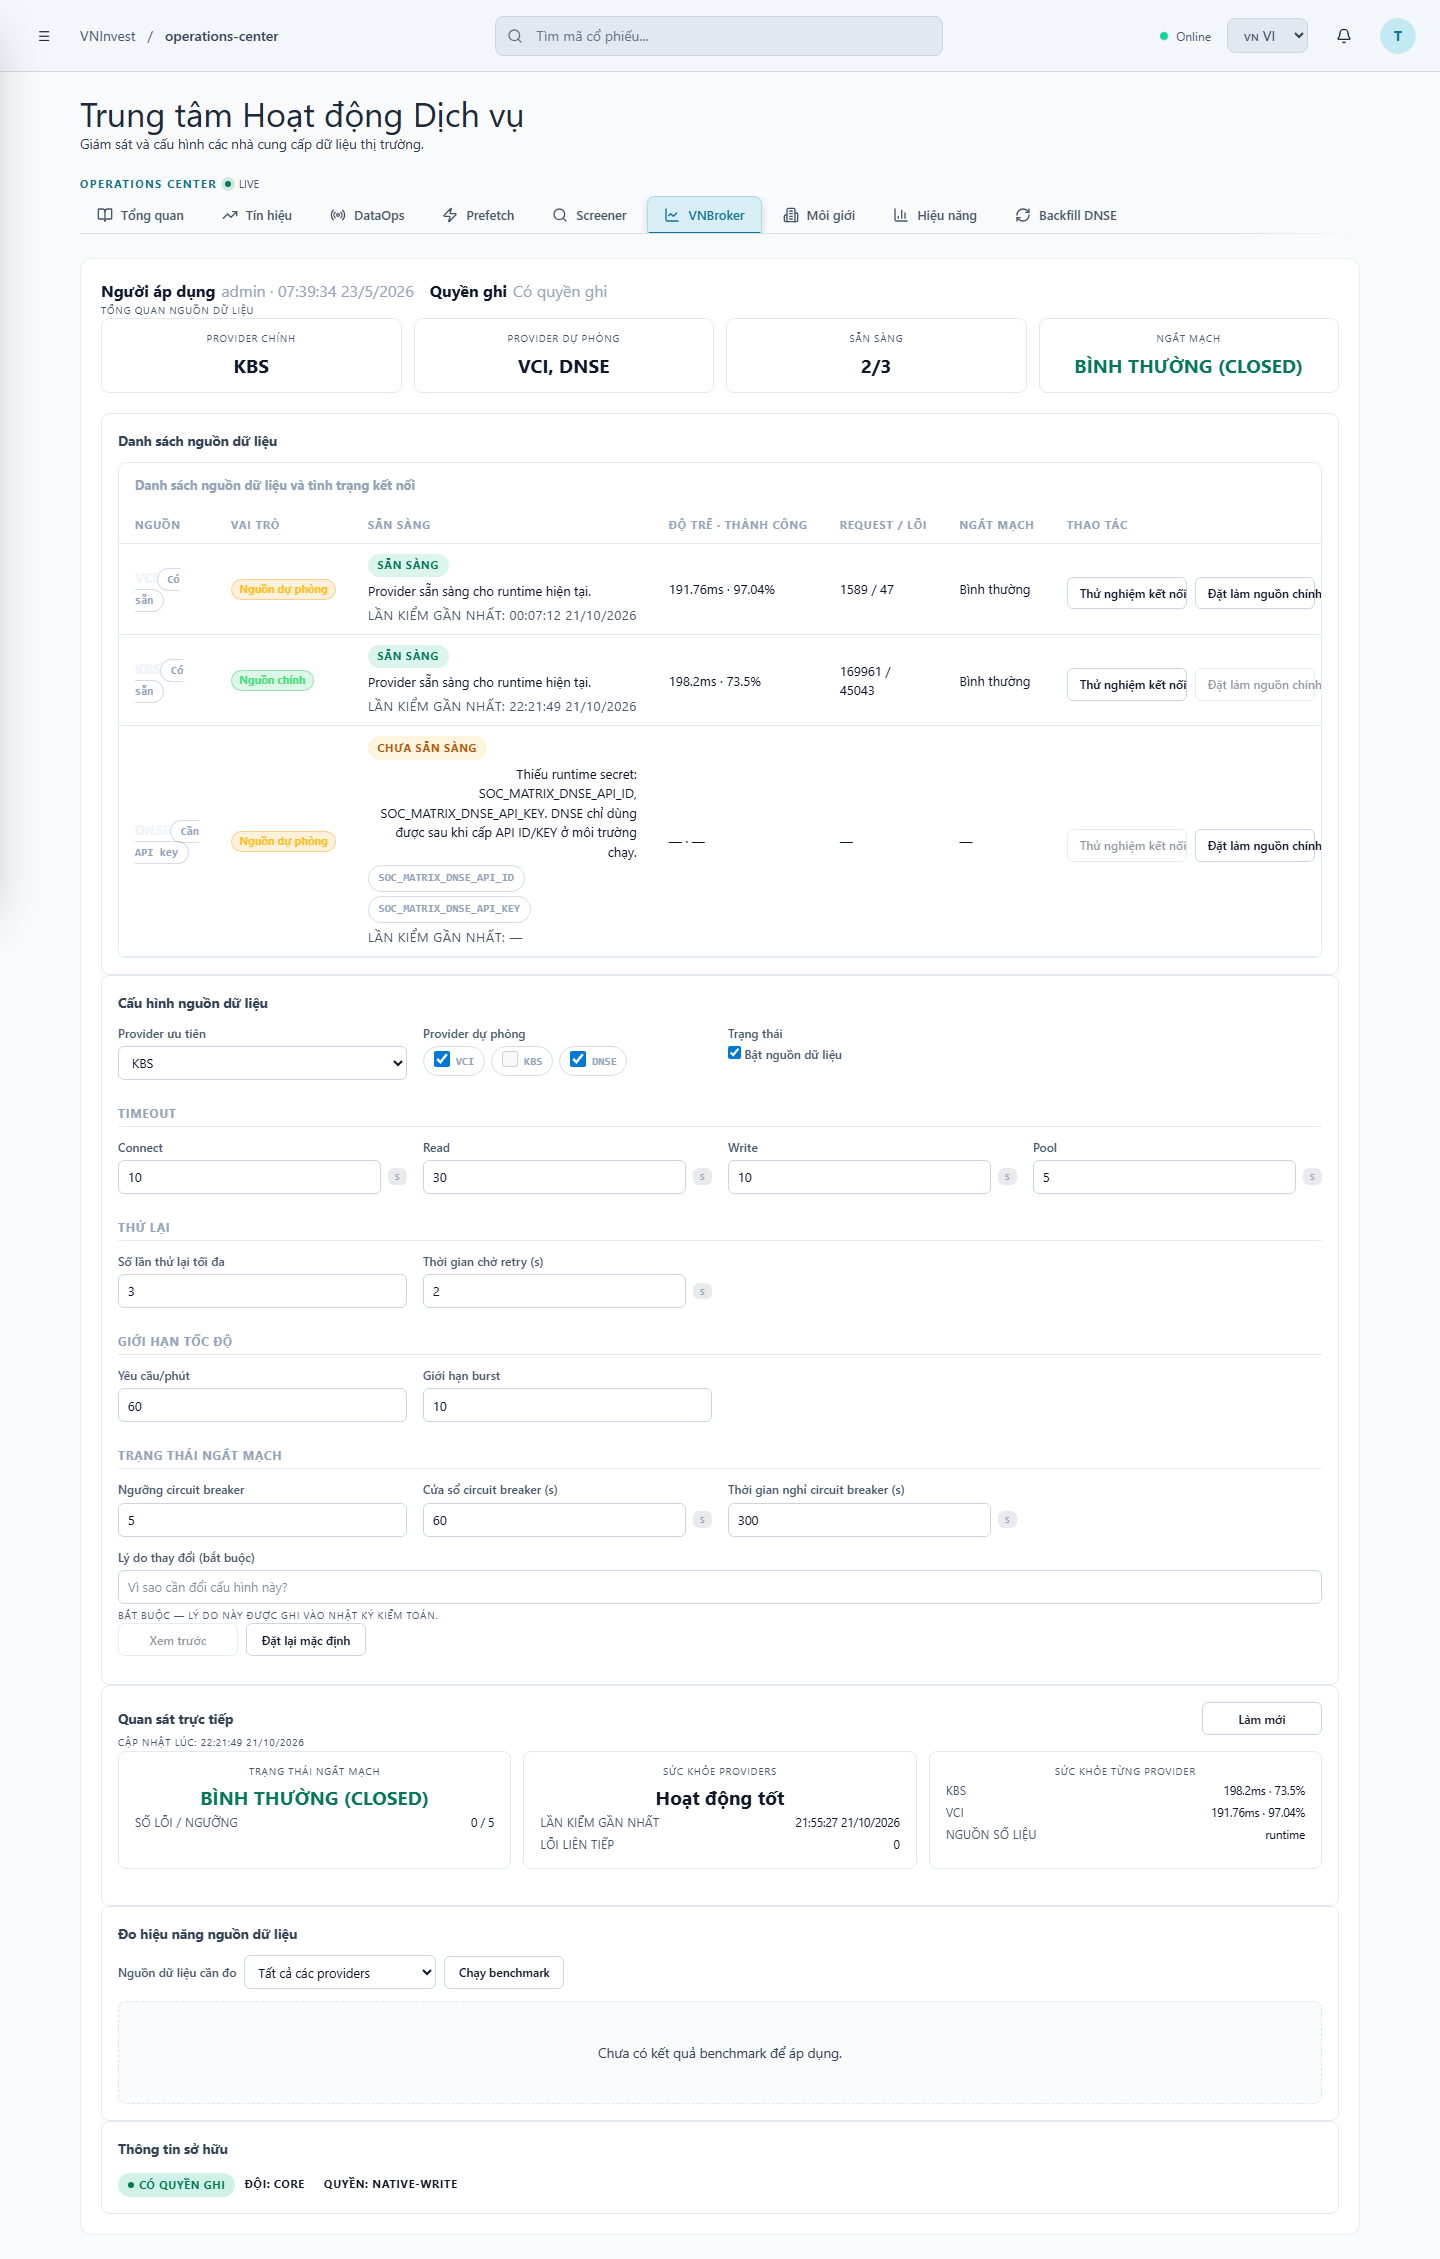
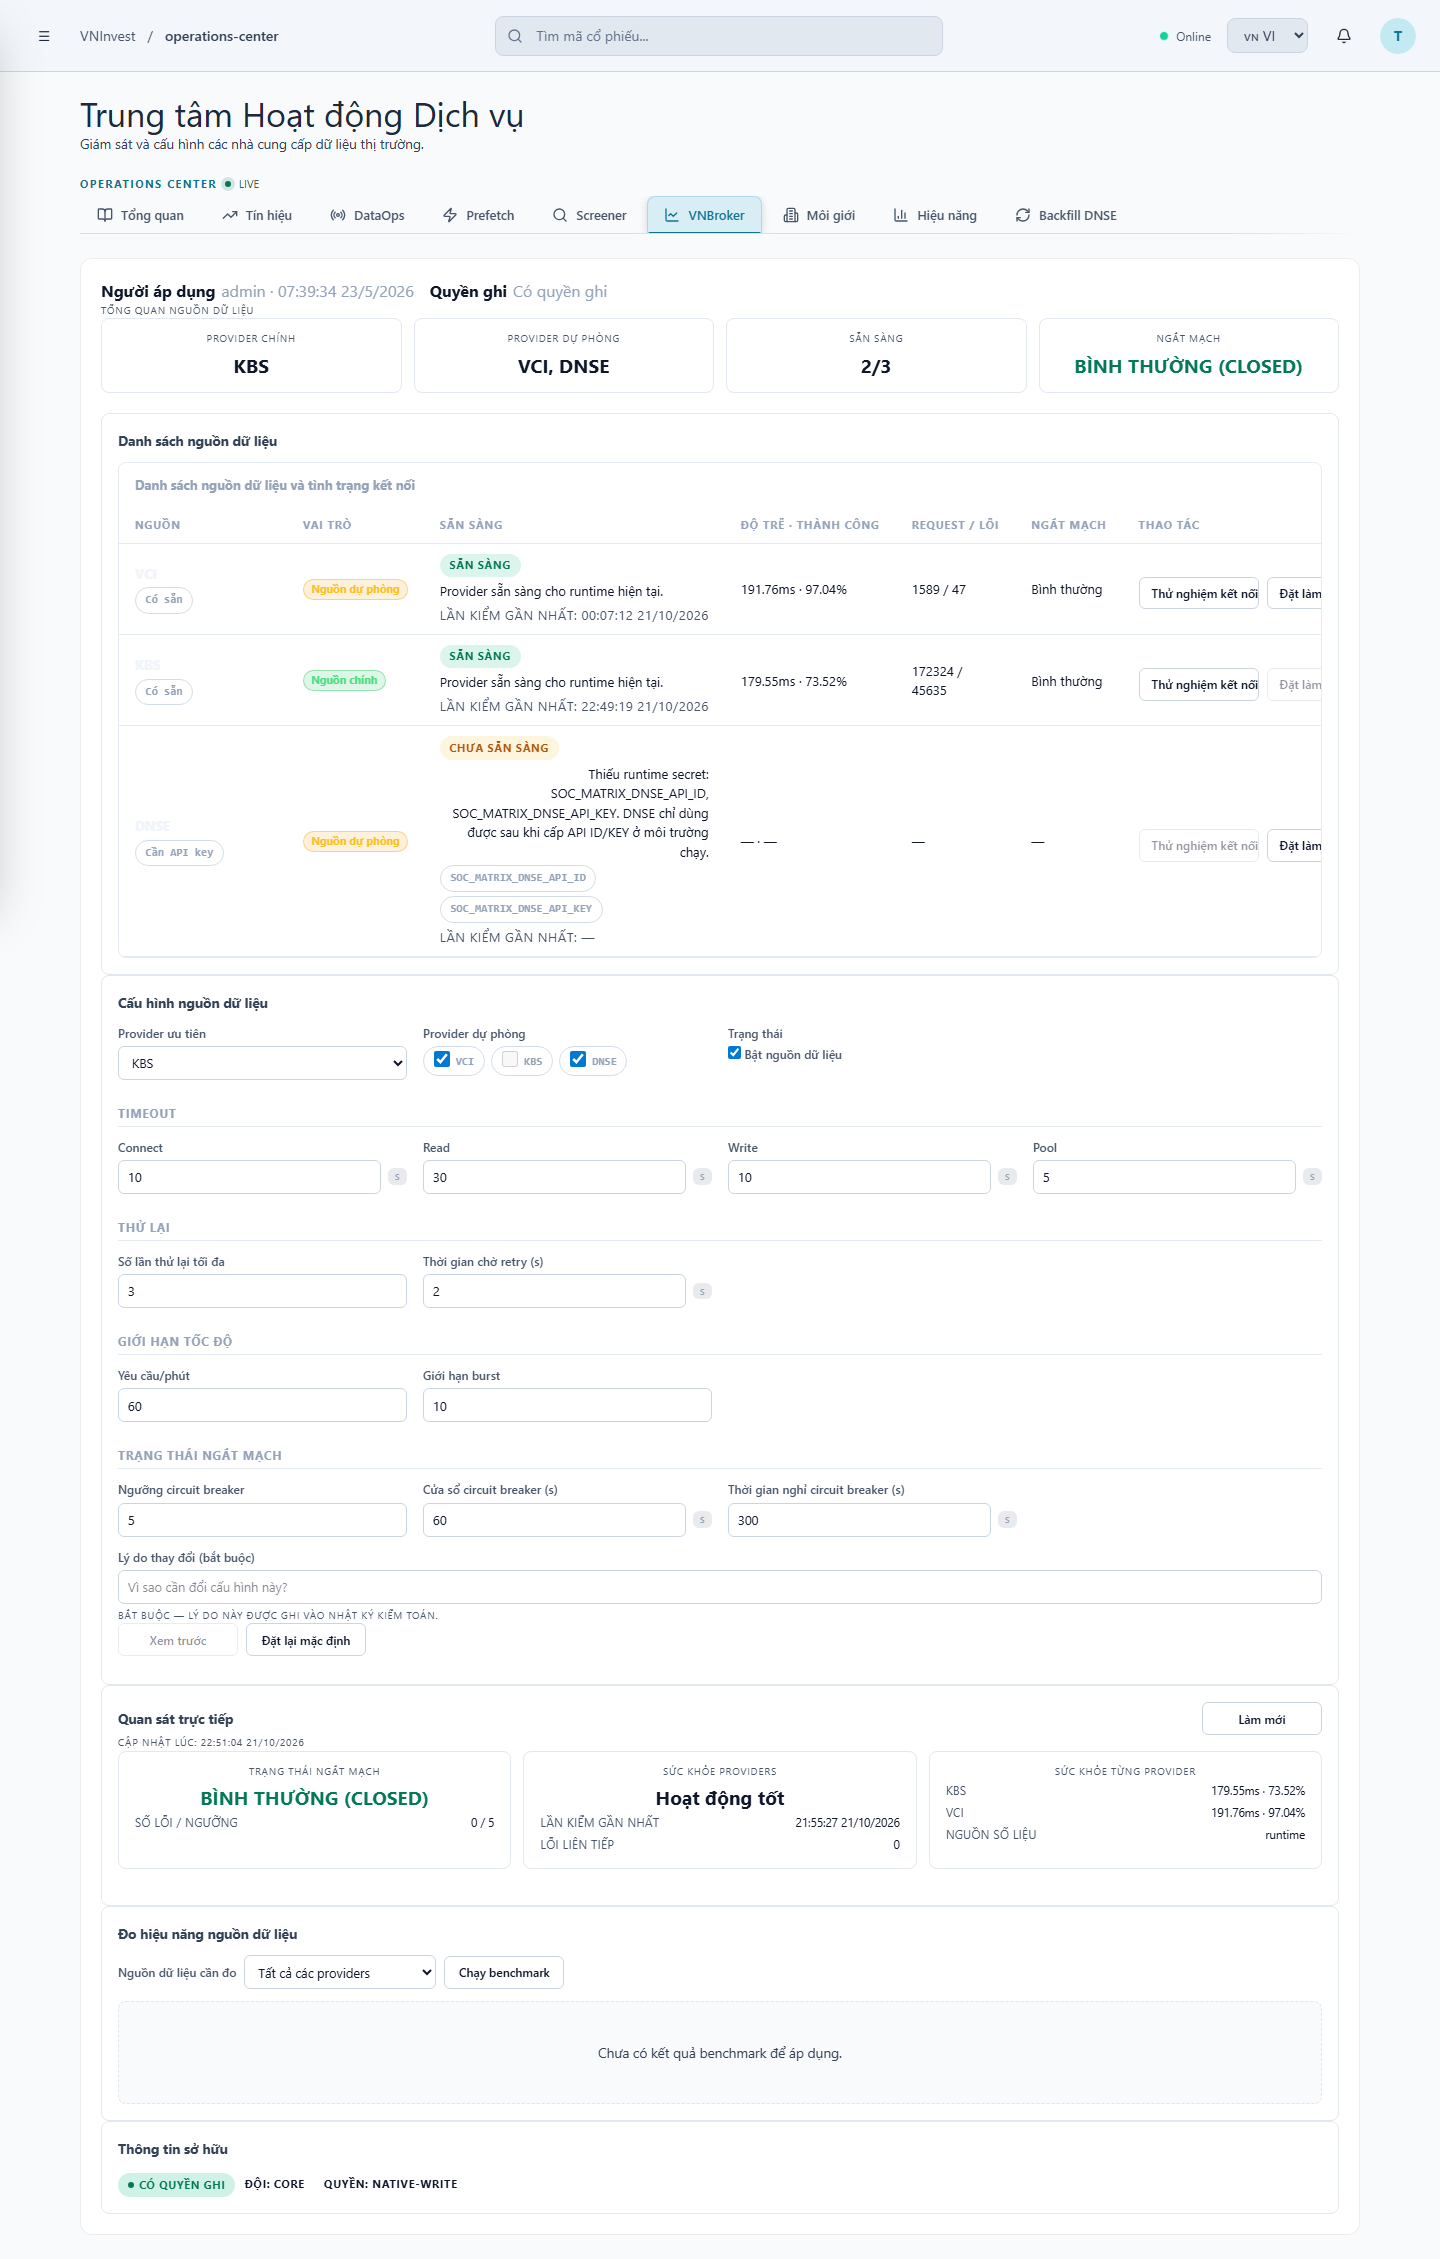
fix(soc): rut "Lan kiem gan nhat" vao title + thu o "San sang" de bang 7 cot VUA container
ANH (Owner, 2026-10-21): "cot thao tac dang loi" — do bang 7 cot van RONG HON container
(noi dung toi thieu cua cac o) ⇒ cot cuoi tran ra ngoai khung.

Sua:
- "Lan kiem gan nhat" chuyen tu dong phu trong o "San sang" vao `title` (thong tin con, chieu cao
  giam 1 dong).
- `.vnbCellStack` (o "San sang") `max-width: 22rem -> 18rem` ⇒ rut ngang.

GATE: tsc 0 · vitest soc-vnbroker 0 (12/12) · pre-push-gate 28 PASS.

diff --git a/packages/web/src/components/soc/SocVnbrokerPanel.tsx b/packages/web/src/components/soc/SocVnbrokerPanel.tsx
@@ -764,7 +764,12 @@ export function SocVnbrokerPanel() {
                     </span>
                   ),
                   ready: (
-                    <span className={styles.vnbCellStack}>
+                    <span
+                      className={styles.vnbCellStack}
+                      title={`${t("soc.vnbroker.last_check")}: ${
+                        row?.last_success_at ? formatTime(row.last_success_at) : "—"
+                      }`}
+                    >
                       <span
                         className={styles.statusBadge}
                         style={getStatusBadgeStyle(ready ? "healthy" : "degraded")}
@@ -788,10 +793,6 @@ export function SocVnbrokerPanel() {
                           ))}
                         </span>
                       ) : null}
-                      <span className={styles.vnbStatLabel}>
-                        {t("soc.vnbroker.last_check")}:{" "}
-                        {row?.last_success_at ? formatTime(row.last_success_at) : "—"}
-                      </span>
                     </span>
                   ),
                   perf: (

diff --git a/packages/web/src/components/soc/soc.components.css b/packages/web/src/components/soc/soc.components.css
@@ -4422,7 +4422,7 @@
   flex-direction: column;
   gap: 0.25rem;
   align-items: flex-start;
-  max-width: 22rem;
+  max-width: 18rem;
 }
 .vnbEnvList {
   display: flex;
